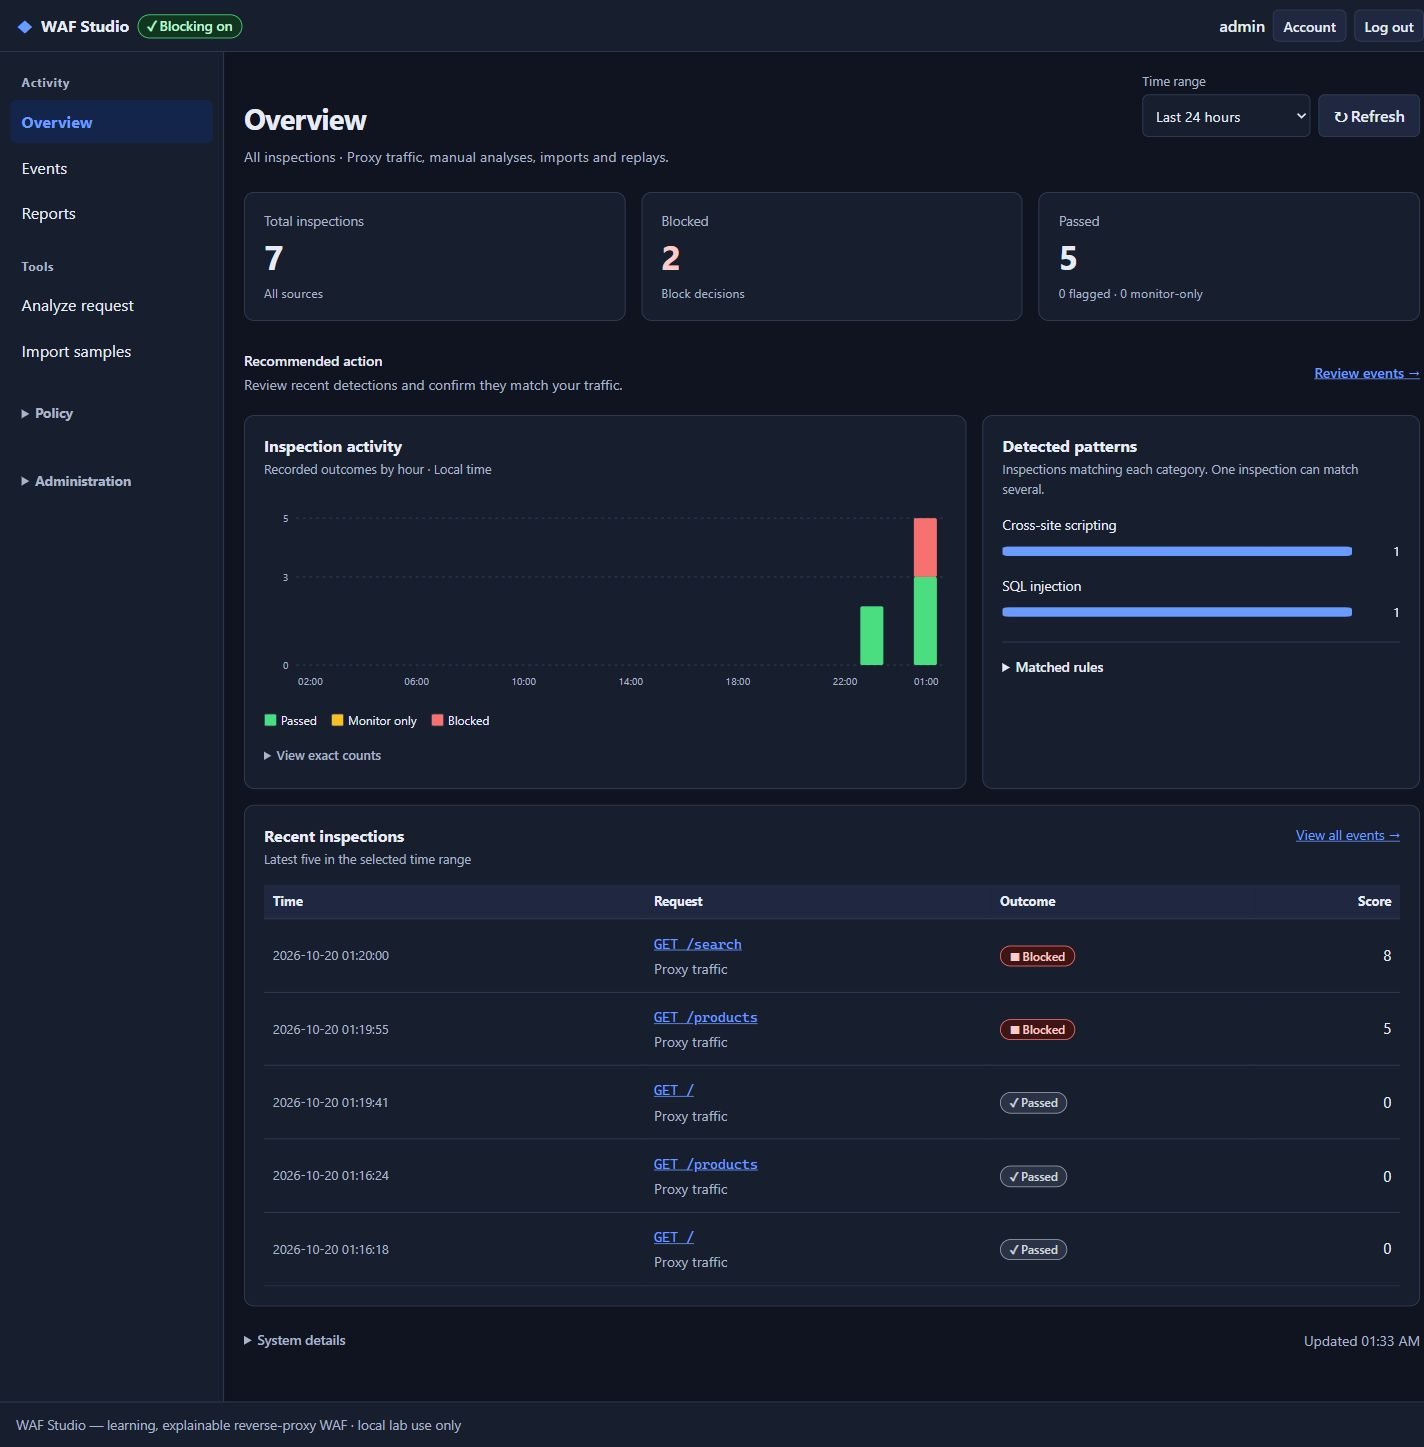
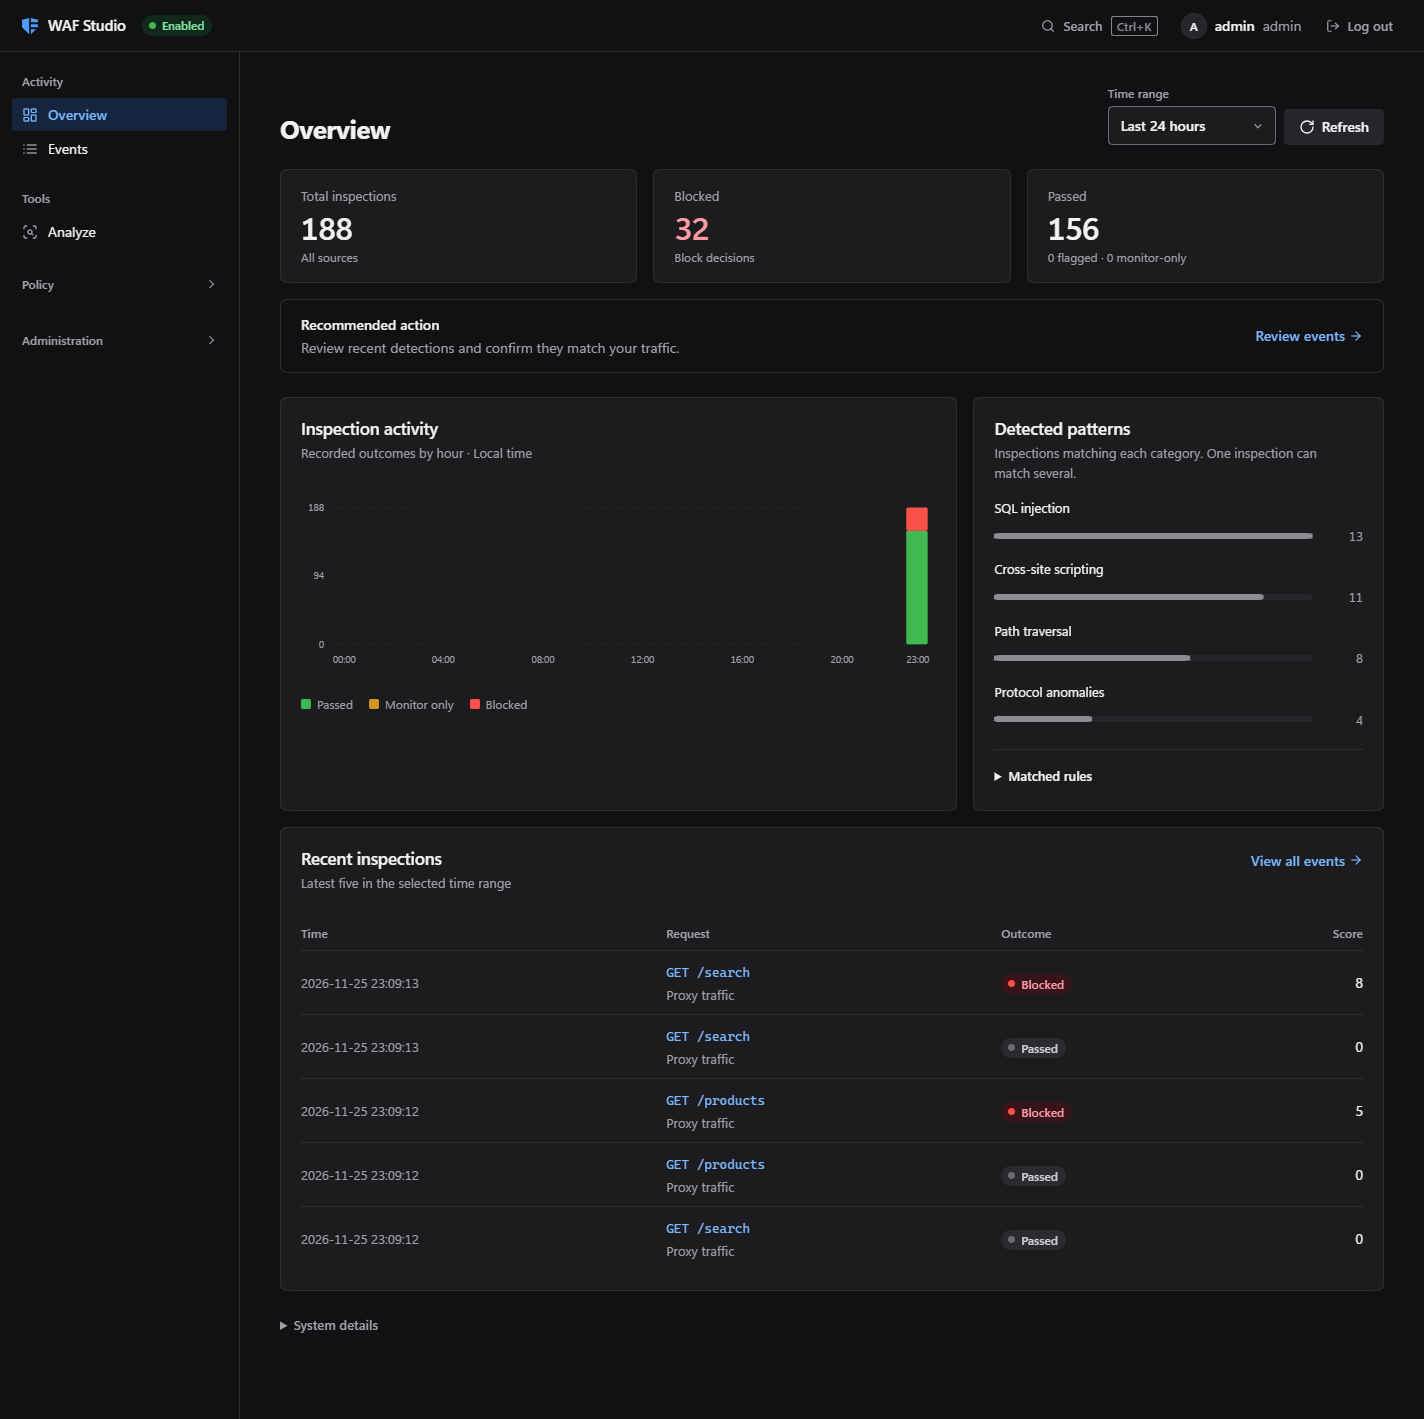
docs(ui): refresh dashboard screenshots and user-guide labels
- re-captured both dashboard screenshots from the current console with seeded
  lab traffic (the old files predated the redesign and were JPEGs named .png)
- user guide: current badge and button labels, Reports reached via Ctrl+K or the
  Events export, replay note, past-the-end paging
- progress log entry for 2026-11-25

diff --git a/docs/user-guide.md b/docs/user-guide.md
@@ -64,9 +64,9 @@ Current screenshots: [desktop](images/dashboard-desktop.png), [phone width](imag
 ## 4. Analyzing a request (Analyze)
 
 1. Open **Tools → Analyze** (`Single request` tab). Optionally choose from the **Load example…** dropdown in the header:
-   * `✔ Benign search`, `✔ Benign name with apostrophe`, `✔ Benign JSON comment` — normal inputs, including
+   * `✓ Benign search`, `✓ Benign name with apostrophe`, `✓ Benign JSON comment` — normal inputs, including
      classic false-positive candidates (an apostrophe; the words *select* and *union* in prose).
-   * `⚠ SQL injection`, `⚠ Cross-site scripting`, `⚠ Path traversal`, `⚠ Double-encoded traversal` — textbook
+   * `⚠ SQL injection (tautology)`, `⚠ Cross-site scripting`, `⚠ Path traversal`, `⚠ Double-encoded traversal` — textbook
      attack indicators for the lab target.
 2. Adjust **Method**, **Path and query** (must start with `/`; URL-encode spaces as `%20`), **Headers** (name/value
    rows; *+ Add header*, *✕* to remove) and **Body**. Give it a **Label** so you can find it later.
@@ -99,17 +99,18 @@ Open an event from **Events**, the dashboard, or the Analyze result. The view is
 | Rule matches | Per match: rule id and name, severity, points, category, **location** (`query.q`, `body.comment`, `header.user-agent`, …), the **matched excerpt** (shown as inert text, at most 120 characters, secrets masked) and **decoded via** chips (`url`, `html`, `unicode` …). Also includes expandable **Suppressed by exceptions**, **Parser anomalies** and **Rate limit** sections when present. |
 | Request & metadata | Sanitized request parameters, body sizes, user agent, timestamps, timings, engine/ruleset/config versions, client pseudonym (`c_…`, never the IP), and expandable **Stored sample (redacted)** and **Raw decision JSON** views. |
 
-What a **normal** sample looks like: `✔ Passed`, score below the flag threshold, *"No rule matched this request."*.
+What a **normal** sample looks like: `✓ Passed`, score below the flag threshold, *"No rule matched this request."*.
 What a **seeded adverse** sample looks like: `■ Blocked` (or `⚑ Flagged · passed`), the exact rule, location and
 excerpt that triggered it — never just "unsafe".
 
 ### Actions on an event
 
-* **↻ Replay** (console and import events): re-runs the stored sample with today's rules,
+* **Replay** (console, import and replay events): re-runs the stored sample with today's rules,
   thresholds and exceptions and opens the new event, which links back to the original. Proxy events cannot be
-  replayed because their bodies are not stored.
+  replayed because their bodies are not stored; on those the button is disabled and a note under the outcome badge
+  says why.
 * **Compare with original** (on replays) / **Compare…**: opens the compare view.
-* **⇩ Export**: downloads a report for just this event in the chosen format (`html`, `csv`, `json`).
+* **Export**: downloads a report for just this event in the chosen format (`html`, `csv`, `json`).
 * **Request exception** (per match): opens the exception form pre-filled with the rule id, location, path and method.
 
 ## 7. History, comparison and export (Events, Compare)
@@ -117,8 +118,9 @@ excerpt that triggered it — never just "unsafe".
 * **Filters**: search text (path, label, event id, method), verdict, source (`proxy`, `console`, `import`, `replay`),
   date range, and expandable **More filters** (`Action`, `Rule id`). Filters live in the address bar, so Back/Forward and bookmarks work.
 * Results are paged 50 at a time (**‹ Previous / Next ›**) and show a single unified **Outcome** badge per row.
+  A bookmarked page that no longer exists (for example after a reset) says *Past the last page* and offers **Last page**.
 * **Compare**: tick **two** events and press **Compare (2/2)**. The compare view highlights all differing fields (`≠`) at the top and groups identical fields into an expandable **Unchanged fields** section.
-* **Export**: choose `html`, `csv` or `json` in the **Events** header and press **⇩ Export** to download a report for either the selected events or the current filter set (or use `#/reports` for a standalone export form).
+* **Export**: choose `html`, `csv` or `json` in the **Events** header and press **Export** to download a report for either the selected events or the current filter set (or use `#/reports` for a standalone export form).
 
 ## 8. Requesting an exception (tuning a false positive)
 
@@ -134,9 +136,9 @@ excerpt that triggered it — never just "unsafe".
 
 ## 9. Exporting reports
 
-Open **Reports**, choose **HTML** (readable, self-contained), **CSV** (spreadsheet; one row per event) or **JSON**
+Open the standalone export form (**Ctrl+K** → *Export a report*, or `#/reports`; it is not in the sidebar), choose **HTML** (readable, self-contained), **CSV** (spreadsheet; one row per event) or **JSON**
 (machine-readable), optionally a date range, verdict and specific event ids (up to 500), and press
-**⇩ Download report**. Without ids the most recent matching events are exported (at most 1 000).
+**Download report**. Without ids the most recent matching events are exported (at most 1 000).
 
 Every report contains the generator, time, filters, ruleset and configuration versions, summary metrics (counts by
 verdict and action, false-positive review figures, top rules, categories, latency) and, per event, the decision,
@@ -149,21 +151,23 @@ the content).
 
 This reproduces the scenario on page 3 of the proposal end to end.
 
-1. **Operator signs in** as `operator` → Dashboard shows mode `⛔ BLOCK`, ruleset and config versions.
+1. **Operator signs in** as `operator` → the header shows **Enabled** (block mode); Overview → **System details**
+   shows the ruleset and config versions.
 2. **Safe input**: Analyze → *Load example: Benign search* → label `normal search` → **Analyze**.
-   Expected: `✔ allow`, action `allowed`, score 0, "No rule matched; no warnings." (completed status, no unjustified critical warning).
+   Expected: `✓ Passed`, score 0, *"No rule matched this request."* (completed status, no unjustified critical warning).
 3. **Suspicious variant**: *Load example: SQL injection (tautology)* → label `suspicious variant` → **Analyze**.
-   Expected: `⛔ block`, action `blocked`, HTTP 403; the match table names the SQLi rule, location `query.q`,
+   Expected: `■ Blocked` with an `HTTP 403` chip; the match table names the SQLi rule, location `query.q`,
    excerpt `' OR 1=1--` and a `url` decoded-via chip — the particular indicator, not just "unsafe". Try the
    double-encoded traversal too: the chips show `url` decoding was needed (twice) and a `DOUBLE_ENCODING` anomaly.
-4. **Compare in history**: Events → tick both events → **Compare selected** → verdict `allow → block`, score `+N`,
+4. **Compare in history**: Events → tick both events → **Compare (2/2)** → verdict `allow → block`, score `+N`,
    rules added highlighted.
-5. **Export a sanitized report**: Reports → HTML → both event ids → **Download report**.
+5. **Export a sanitized report**: Events → keep both events ticked → `html` → **Export** (or the standalone form:
+   **Ctrl+K** → *Export a report* → both event ids → **Download report**).
 6. **Administrator changes one permitted rule or threshold** (see the admin guide): e.g. Config → raise the block
    threshold above the SQLi score, reason "demo: tune threshold", confirm. A new configuration version is created and
    audited.
-7. **Repeat the test**: open the `suspicious variant` event → **Replay with current rules** → the new event shows
-   `⚑ flag` / `allowed` with the new thresholds; **Compare with original** shows *Configuration version changed* and
+7. **Repeat the test**: open the `suspicious variant` event → **Replay** → the new event shows
+   `⚑ Flagged · passed` with the new thresholds; **Compare with original** shows *Configuration version changed* and
    the verdict change — both the new result and the configuration change are traceable (Audit: `config.update`,
    `event.replay`).
 8. **Unauthorized viewer**: sign in as `viewer` and open the event URL → *Not available for your role*; the server

diff --git a/docs/progress/wahaj.md b/docs/progress/wahaj.md
@@ -15,3 +15,4 @@
 | 2026-10-19 | Integration run on ports 3900/3901/3902 with a scratch `WAF_DATA_DIR` seeded by `scripts/setup.js`: an 81-check API probe (every endpoint the console calls, all three roles, CSRF, 428 confirmations, separation of duties, replay before/after a threshold change and an exception, report export + audit) passed 81/81 |
 | 2026-10-19 | Drove the real SPA in headless Chrome over CDP (login, every view per role, Analyze via the UI, compare, rule validation, config confirmation dialog with focus trap + Esc, audit chain verification, viewer denials, 360 px width): 30/30 pages with no CSP violations, no JS exceptions, no horizontal scroll |
 | 2026-10-19 | Fix from integration: after a password change the server revokes every session, so the Account page now returns to sign-in with an explanation |
+| 2026-11-25 | UI pass with Claude's help (automated session): drove the console in headless Edge as admin/operator/viewer at 1280 px and 375 px (84 pages, scratch data dir, no console errors or CSP violations). Fixed the Audit log scrolling sideways on phones (unbroken JSON in the Details cell), pagination reading "1,000–23 of 23 · page 20 / 1" for an offset past the end (new `pageInfo()` helper; shows *Past the last page* + **Last page**), and the disabled Replay button on proxy events explaining itself only in a tooltip (now a visible note). Refreshed both dashboard screenshots (the old ones predated the redesign and were JPEGs named `.png`), corrected stale labels in `user-guide.md`, added UI unit tests; `npm test` 806/806 |
